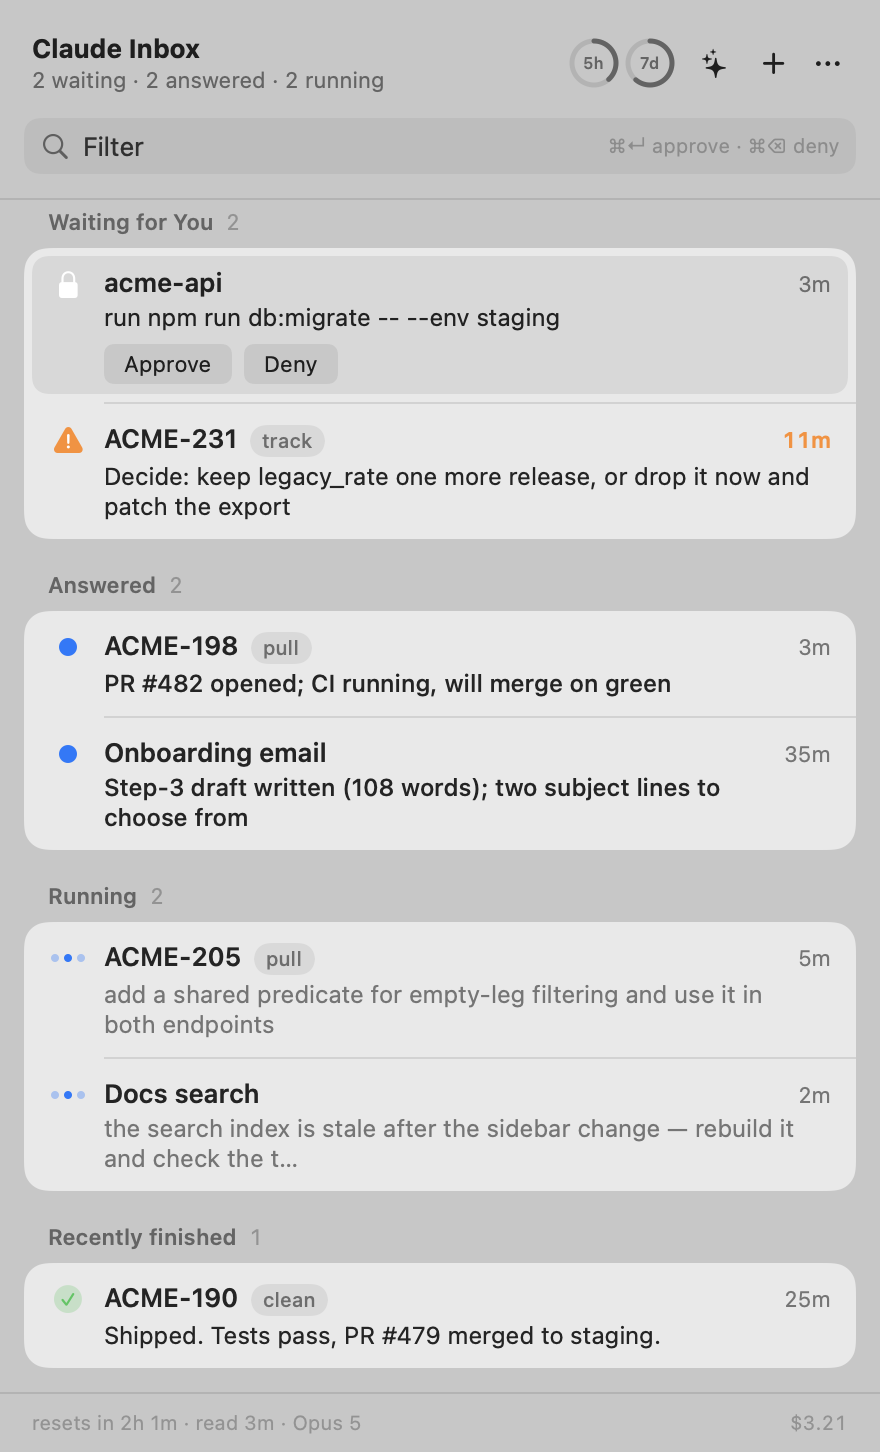
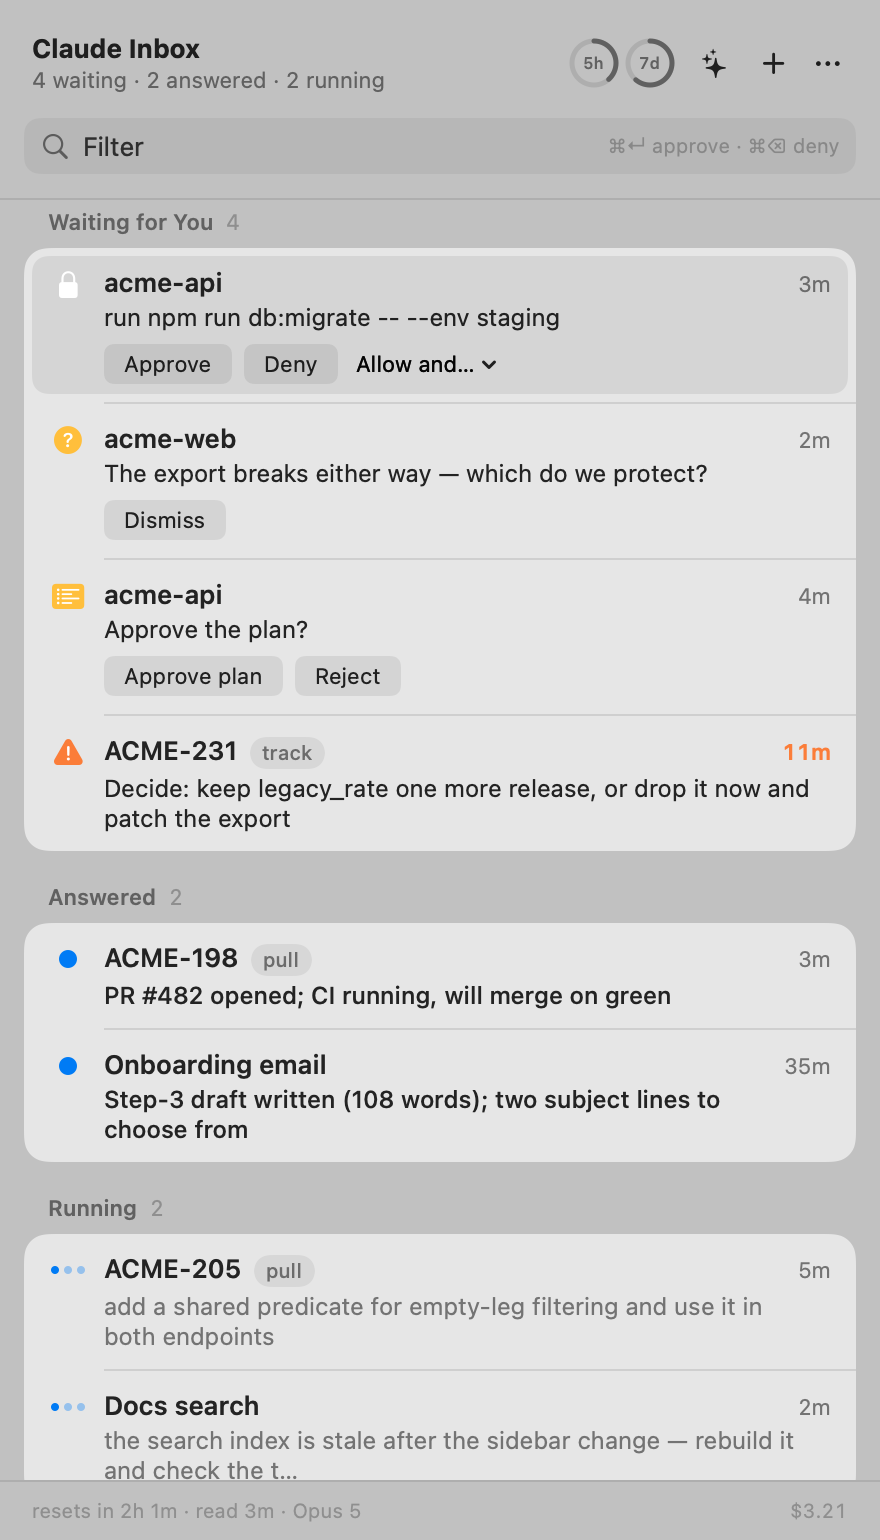
docs: show the panel instead of describing it
Four screenshots where there were two, one per kind of row — a question with its
options, a plan as rendered markdown, a permission with the grant that stops the
next dozen, an answer read in place — with a line each instead of a paragraph.
The plan is shot in light appearance, so that stops needing its own sentence.

The demo grew a plan to be shot; everything here is invented sessions, as before.

diff --git a/README.md b/README.md
@@ -57,26 +57,55 @@ hooks they started with and pick up the new ones on their next turn.
 
 ## What it does
 
-<p align="center">
-  <img src="docs/screenshots/decision-dark.png" width="440" alt="An open row: a permission with Approve and Deny, and a decision the session is waiting on, with the full answer under it">
-</p>
+Four kinds of row, and each one is answered where you read it.
 
-| Section | What lands there |
-|---|---|
-| **Waiting for You** | questions (`AskUserQuestion`) answered on the card — tap an option or type your own; plans (`ExitPlanMode`) read and approved there too; permission requests — Approve / Deny on the row and on the banner, plus **Allow and…** for the broader grant Claude Code itself offers (trust this directory, accept edits), which answers this request and the next dozen; turns that ended by asking you something, with the ask in one line and one-tap replies |
-| **Answered** | finished turns, unread ones with a blue dot; open a row for the whole answer as rendered markdown |
-| **Running** | what each session is doing right now, in the model's own words |
-
-- Rows are named after the tracker issue the session works on (`ACME-231`, from a Linear link or a bare key in your prompt), else a short generated name ("Docs search"), else the session name.
-- Notes go back into a running session, signed with who typed them and where. Claude Code still frames them as a peer's message, on purpose: nothing outside the terminal can impersonate you, and the signature is attribution rather than authority — anything running as you could write the same line. It answers a real objection, though, which a session raised out loud after four unsigned one-word notes: *no signature, no one to reply to.*
-- **If you want a note to carry your authority**, that is a decision to make at the receiving end, knowingly: a line in your own `CLAUDE.md` telling your sessions how to read a signed note. It trades a boundary — anything on the machine running as you could then steer a session — for not walking to the terminal. The alternative that costs nothing: have sessions ask with `AskUserQuestion`, and answer that in the panel, where the answer travels on the permission channel and carries your authority by construction.
-- Tapping a banner opens the panel on that row, expanded. Approve and Deny are on the banner itself for a permission.
-- **✦** digests everything at once; **+** starts a session from the panel; right-click a row for Linear, terminal, copy, rename.
-- Native: light/dark, your accent colour, system fonts and symbols.
+### A question, with its options on the card
 
 <p align="center">
-  <img src="docs/screenshots/permission-light.png" width="440" alt="Light appearance: a permission request opened, showing the exact command">
+  <img src="docs/screenshots/question-dark.png" width="440" alt="A question row expanded: the question, three options as radio buttons, and a field for an answer that was not on the list">
 </p>
+
+A session that stops to ask you something shows the question itself — not "a
+session needs you". One tap on an option answers it and the session carries on.
+The field underneath is for the answer that was not on the list.
+
+### A plan, read where you read everything else
+
+<p align="center">
+  <img src="docs/screenshots/plan-light.png" width="440" alt="A plan row expanded in light appearance, showing the plan as rendered markdown with Approve plan and Reject">
+</p>
+
+The whole plan, as rendered markdown, with the decision on the same card. Light
+and dark follow the system — this is the same panel.
+
+### A permission, and the grant that stops the next dozen
+
+<p align="center">
+  <img src="docs/screenshots/permission-light.png" width="440" alt="A permission row expanded, showing the exact command with Approve, Deny, and an Allow and… menu">
+</p>
+
+The exact command, then Approve or Deny. **Allow and…** offers what Claude Code
+itself suggests — trust this directory, accept edits, allow this tool — so one
+press answers this request and the ones after it. Approve and Deny are on the
+notification too.
+
+### An answer, without going to find it
+
+<p align="center">
+  <img src="docs/screenshots/decision-dark.png" width="440" alt="An answered row expanded: what was asked, then the session's full reply as rendered markdown">
+</p>
+
+What you asked, then everything the session said since — rendered, scrollable,
+selectable. When the reply asks you something, up to three likely answers appear
+as chips: a tap drafts one into the note field, and the field sends it back into
+the running session. Unread answers carry the blue dot Mail uses; running
+sessions show the three dots of someone typing.
+
+Rows are named after the tracker issue the session works on (`ACME-231`, read
+from a Linear link or a bare key in what you typed), else a short generated name
+("Onboarding email"), else the session's own name. **✦** in the header writes one
+paragraph across every session; **+** starts a new one without a terminal;
+right-click a row for Linear, the terminal, copy, or rename.
 
 ## Keyboard
 
